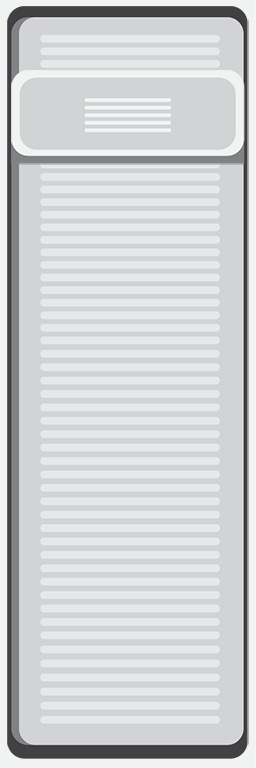
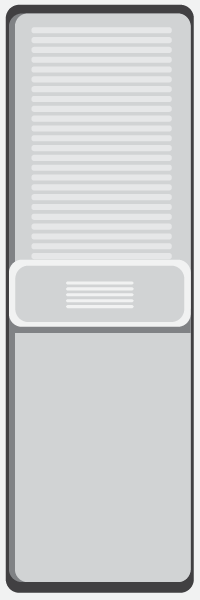
ajeiando cor do BG; ajeitando estado inicial da mola;

Changed region(s): [[0.0, 0.03, 0.99, 0.99], [0.9, 0.96, 0.93, 0.99]]

diff --git a/ControladorDinamico/ControladorDinamico/ProjectViewController.swift b/ControladorDinamico/ControladorDinamico/ProjectViewController.swift
@@ -26,6 +26,7 @@ class ProjectViewController: UIViewController, iCarouselDataSource, iCarouselDel
 
     override func viewDidLoad() {
         projectsCarouselView.type = .CoverFlow2
+        projectsCarouselView.centerItemWhenSelected = true
         self.newProjectViewController.delegate = self
     }
     
@@ -72,6 +73,10 @@ class ProjectViewController: UIViewController, iCarouselDataSource, iCarouselDel
         if (option == .Spacing)
         {
             return value * 4
+            
+        } else if (option == .)
+        {
+            return value * 4
         }
         return value
     }
@@ -93,9 +98,10 @@ class ProjectViewController: UIViewController, iCarouselDataSource, iCarouselDel
     override func viewWillAppear(animated: Bool) {
         super.viewDidAppear(animated)
         self.projects = ProjectManager.sharedInstance.allProjects()
-        self.reloadCarousel()
         self.selectedProject = nil
         self.addingProject = false
+        self.reloadCarousel()
+        self.projectsCarouselView.scrollToItemAtIndex(self.projectsCarouselView.currentItemIndex, animated: false)
     }
     
     func carousel(carousel: iCarousel!, didSelectItemAtIndex index: Int) {

diff --git a/ControladorDinamico/ControladorDinamico/SpringSoundObject.swift b/ControladorDinamico/ControladorDinamico/SpringSoundObject.swift
@@ -27,7 +27,7 @@ class SpringSoundObject : SoundObject, Touchable, ModulatorNode
     let springEditTexture:SKTexture = SKTexture(imageNamed: "spring.png")
 
     let handlerWidthBorder:CGFloat = 3.5
-    let stickWidthBorder:CGFloat = 10
+    let stickWidthBorder:CGFloat = 18
     let springHeightBorder:CGFloat = 12
 
     var modulators:Array<Modulator> = Array<Modulator>()
@@ -94,12 +94,12 @@ class SpringSoundObject : SoundObject, Touchable, ModulatorNode
             self.addChild(self.springHandle!);
         }
         
-        for stickIndex in 0...10
+        for stickIndex in 0...25
         {
             var stick:SKSpriteNode = SKSpriteNode(imageNamed: "spring_stick.png")
             stick.size.width = self.size.width - (self.stickWidthBorder * 2)
-            stick.size.height = self.springHandle!.size.height / 8
-            stick.position.x = 0;
+            stick.size.height = self.springHandle!.size.height / 10
+            stick.position.x = 2;
             stick.position.y = 0;
             self.sticksList.append(stick)
             self.addChild(stick);

diff --git a/ControladorDinamico/ControladorDinamico/ProjectManager.swift b/ControladorDinamico/ControladorDinamico/ProjectManager.swift
@@ -27,7 +27,6 @@ class ProjectManager {
     
     func saveProject(project: Project) -> Bool {
         if (project.projectName != nil) {
-            NSLog("Saving project %@", project.projectName!)
             let fullName:String = project.projectName!.stringByAppendingPathExtension("txt")!
             let destinationPath:String = documentsPath.stringByAppendingPathComponent(fullName)
             
@@ -43,7 +42,6 @@ class ProjectManager {
             if (project.projectName != nil) {
                 let projectName:NSString = project.projectName!!
                 if (projectName.isEqualToString(name)) {
-                    NSLog("Loading project %@", projectName)
                     return project as? Project
                 }
             }

diff --git a/ControladorDinamico/ControladorDinamico/PlayScene.swift b/ControladorDinamico/ControladorDinamico/PlayScene.swift
@@ -12,6 +12,7 @@ import AVFoundation
 
 class PlayScene : SKScene, SKPhysicsContactDelegate
 {
+    let bgColor:UIColor = UIColor(red: 34.0/255.0, green: 30.0/255.0, blue: 31.0/255.0, alpha: 1)
     var gridSize:CGFloat
     var selectedNode:SKSpriteNode?
     var objects:Array<SoundObject> = Array<SoundObject>()
@@ -77,7 +78,7 @@ class PlayScene : SKScene, SKPhysicsContactDelegate
         savedStates = [slot1Button, slot2Button, slot3Button, slot4Button]
 
         super.init(size: size)
-        self.scene?.backgroundColor = UIColor.blackColor()
+        self.scene?.backgroundColor = bgColor
 
         self.physicsWorld.contactDelegate = self
         self.physicsWorld.gravity = CGVector(dx: 0, dy: 0)

diff --git a/ControladorDinamico/ControladorDinamico/SavedStateMenuButton.swift b/ControladorDinamico/ControladorDinamico/SavedStateMenuButton.swift
@@ -70,7 +70,6 @@ class SavedStateMenuButton : MenuButton
         super.touchEnded(position)
         touching = false
         if (!saved && touchingTime < timeToSave) {
-            NSLog("Loading state from slot %d", self.slot)
             self.touchingTime = 0
             for obj in objList {
                 obj.loadStatus(slot)
@@ -112,7 +111,6 @@ class SavedStateMenuButton : MenuButton
         if (touching && !saved) {
             if (touchingTime >= timeToSave) {
                 saved = true
-                NSLog("Saving state to slot %d", self.slot)
                 for obj in objList {
                     obj.saveStatus(slot)
                 }

diff --git a/ControladorDinamico/ControladorDinamico/EditScene.swift b/ControladorDinamico/ControladorDinamico/EditScene.swift
@@ -13,7 +13,7 @@ class EditScene : SKScene
 {
     var gridSize:CGFloat
     let distanceToCreateObject:CGFloat = 30
-    
+    let bgColor:UIColor = UIColor(red: 34.0/255.0, green: 30.0/255.0, blue: 31.0/255.0, alpha: 1)
     var selectedNodeOriginalPos:CGPoint?
     var objects:Array<SoundObject> = Array<SoundObject>()
     var buttonDrawer:VerticalMenuBar?
@@ -103,7 +103,7 @@ class EditScene : SKScene
 
         super.init(size: size)
         
-        self.scene?.backgroundColor = UIColor.blackColor()
+        self.scene?.backgroundColor = bgColor
         var buttons = [
             buttonTemplate0,
             buttonTemplate1,

diff --git a/ControladorDinamico/ControladorDinamico/PitchMidiModulator.swift b/ControladorDinamico/ControladorDinamico/PitchMidiModulator.swift
@@ -34,7 +34,6 @@ class PitchMidiModulator : MidiModulator
         if (currentPitch != intModulation && SoundManager.sharedInstance.audioEngine.running)
         {
             self.currentPitch = intModulation
-            //NSLog("Sending MIDI controller 1 (pitchbend) with value %u", intModulation)
             self.sampler?.sampler().sendPitchBend(intModulation, onChannel: 0)
         }
     }

diff --git a/ControladorDinamico/ControladorDinamico/HorizontalSliderHandle.swift b/ControladorDinamico/ControladorDinamico/HorizontalSliderHandle.swift
@@ -62,9 +62,6 @@ class HorizontalSliderHandle : SKSpriteNode, Touchable
         if (fabs(self.position.x) < distanceToSnap) {
             self.position.x = 0
         }
-        
-        NSLog("Slider intensity: %f", self.currentSoundIntensity())
-        
     }
     
     func touchEnded(position:CGPoint)

diff --git a/ControladorDinamico/ControladorDinamico/SliderHandle.swift b/ControladorDinamico/ControladorDinamico/SliderHandle.swift
@@ -62,9 +62,6 @@ class SliderHandle : SKSpriteNode, Touchable
         if (fabs(self.position.y) < distanceToSnap) {
             self.position.y = 0
         }
-        
-        NSLog("Slider intensity: %f", self.currentSoundIntensity())
-        
     }
     
     func touchEnded(position:CGPoint)
